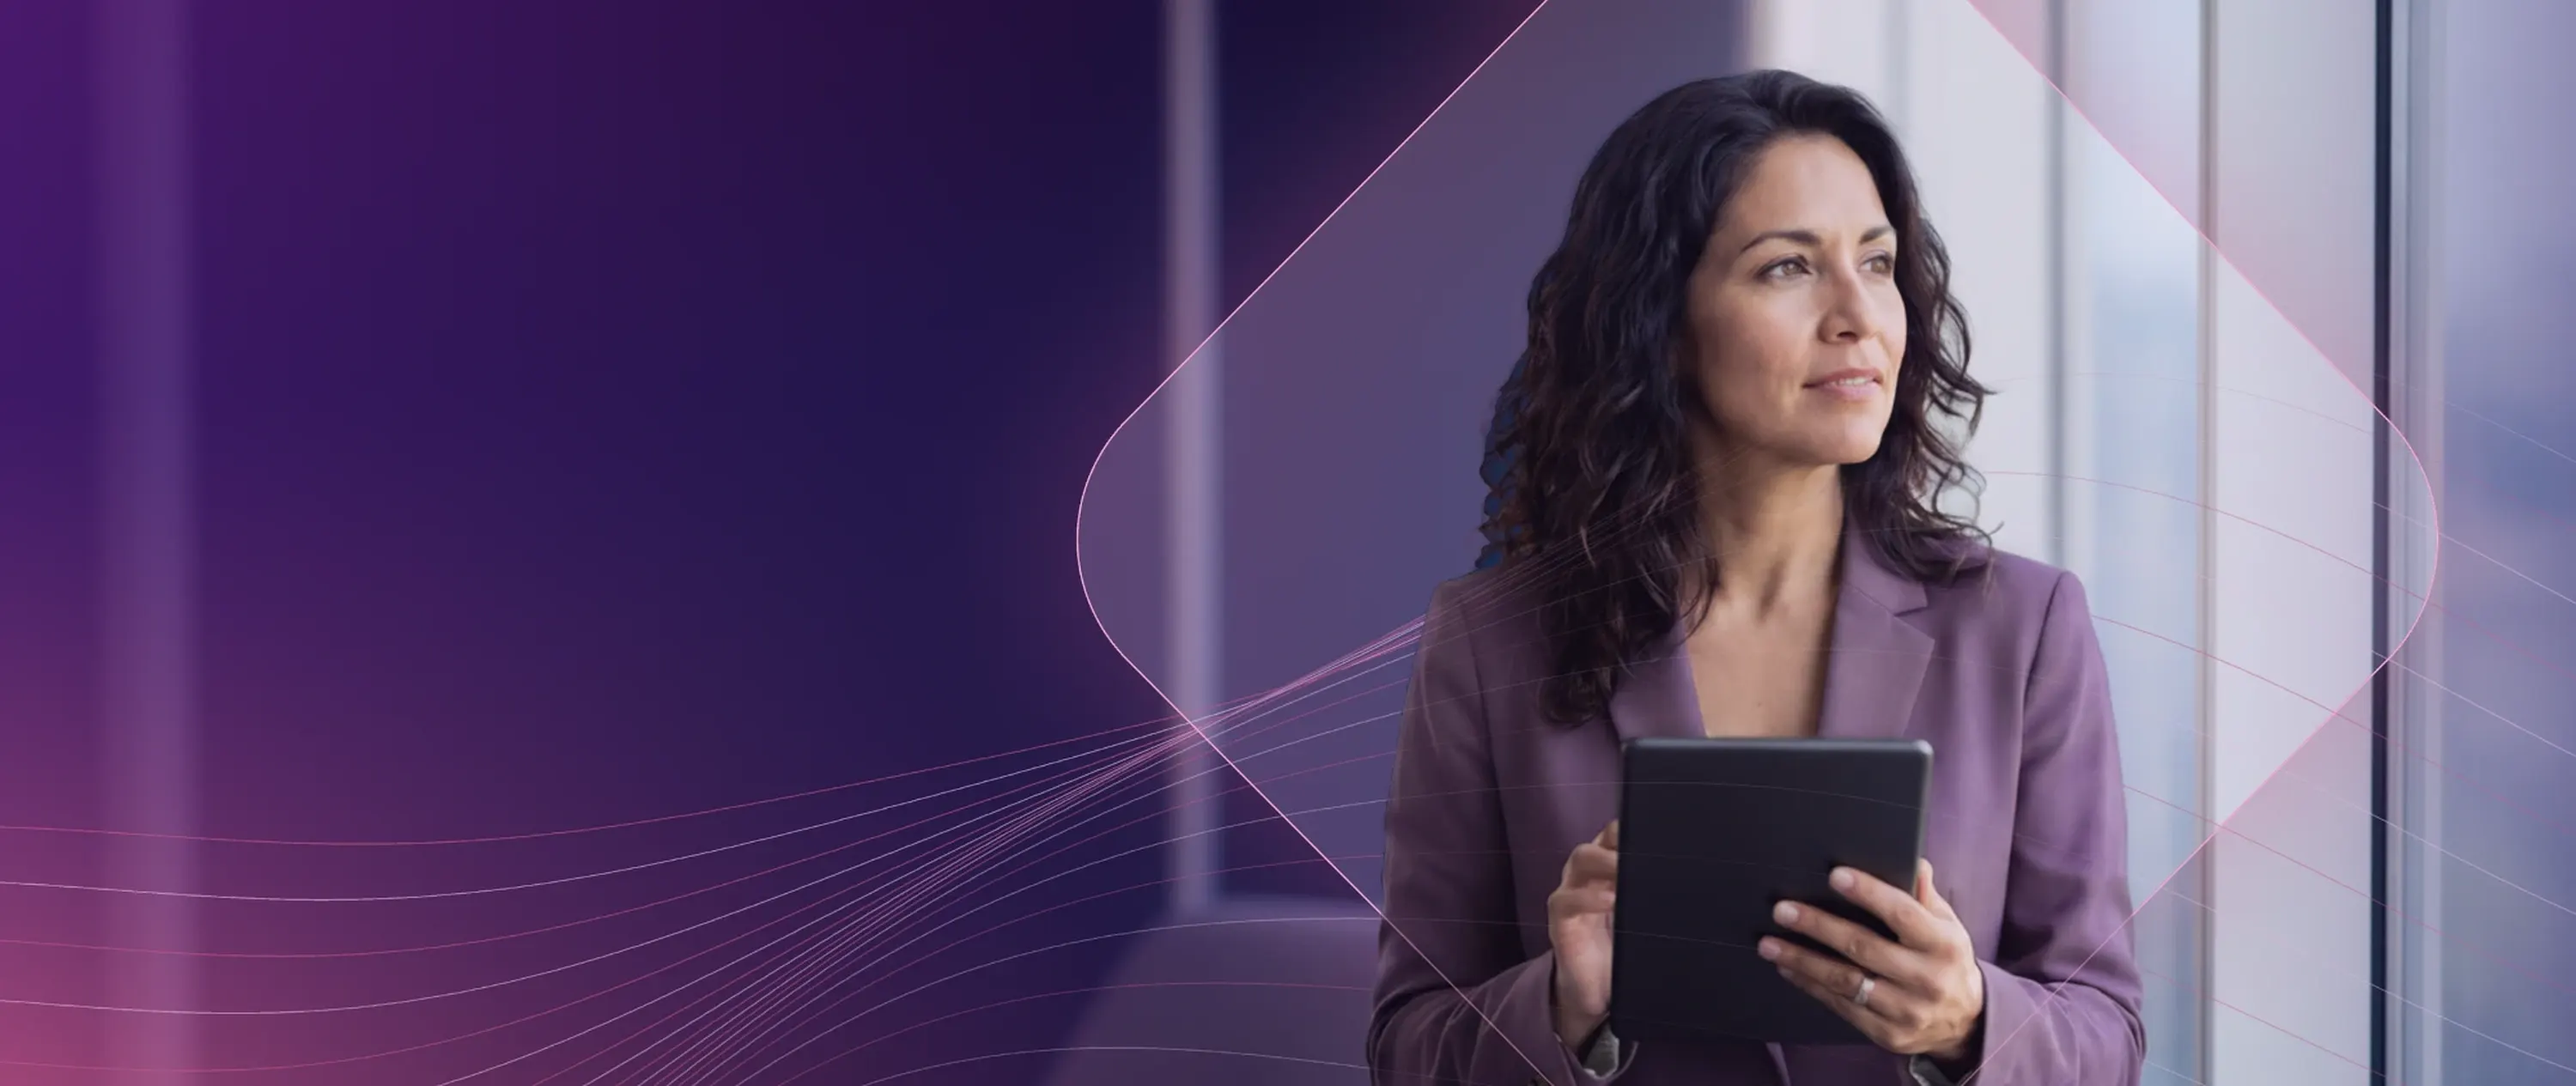
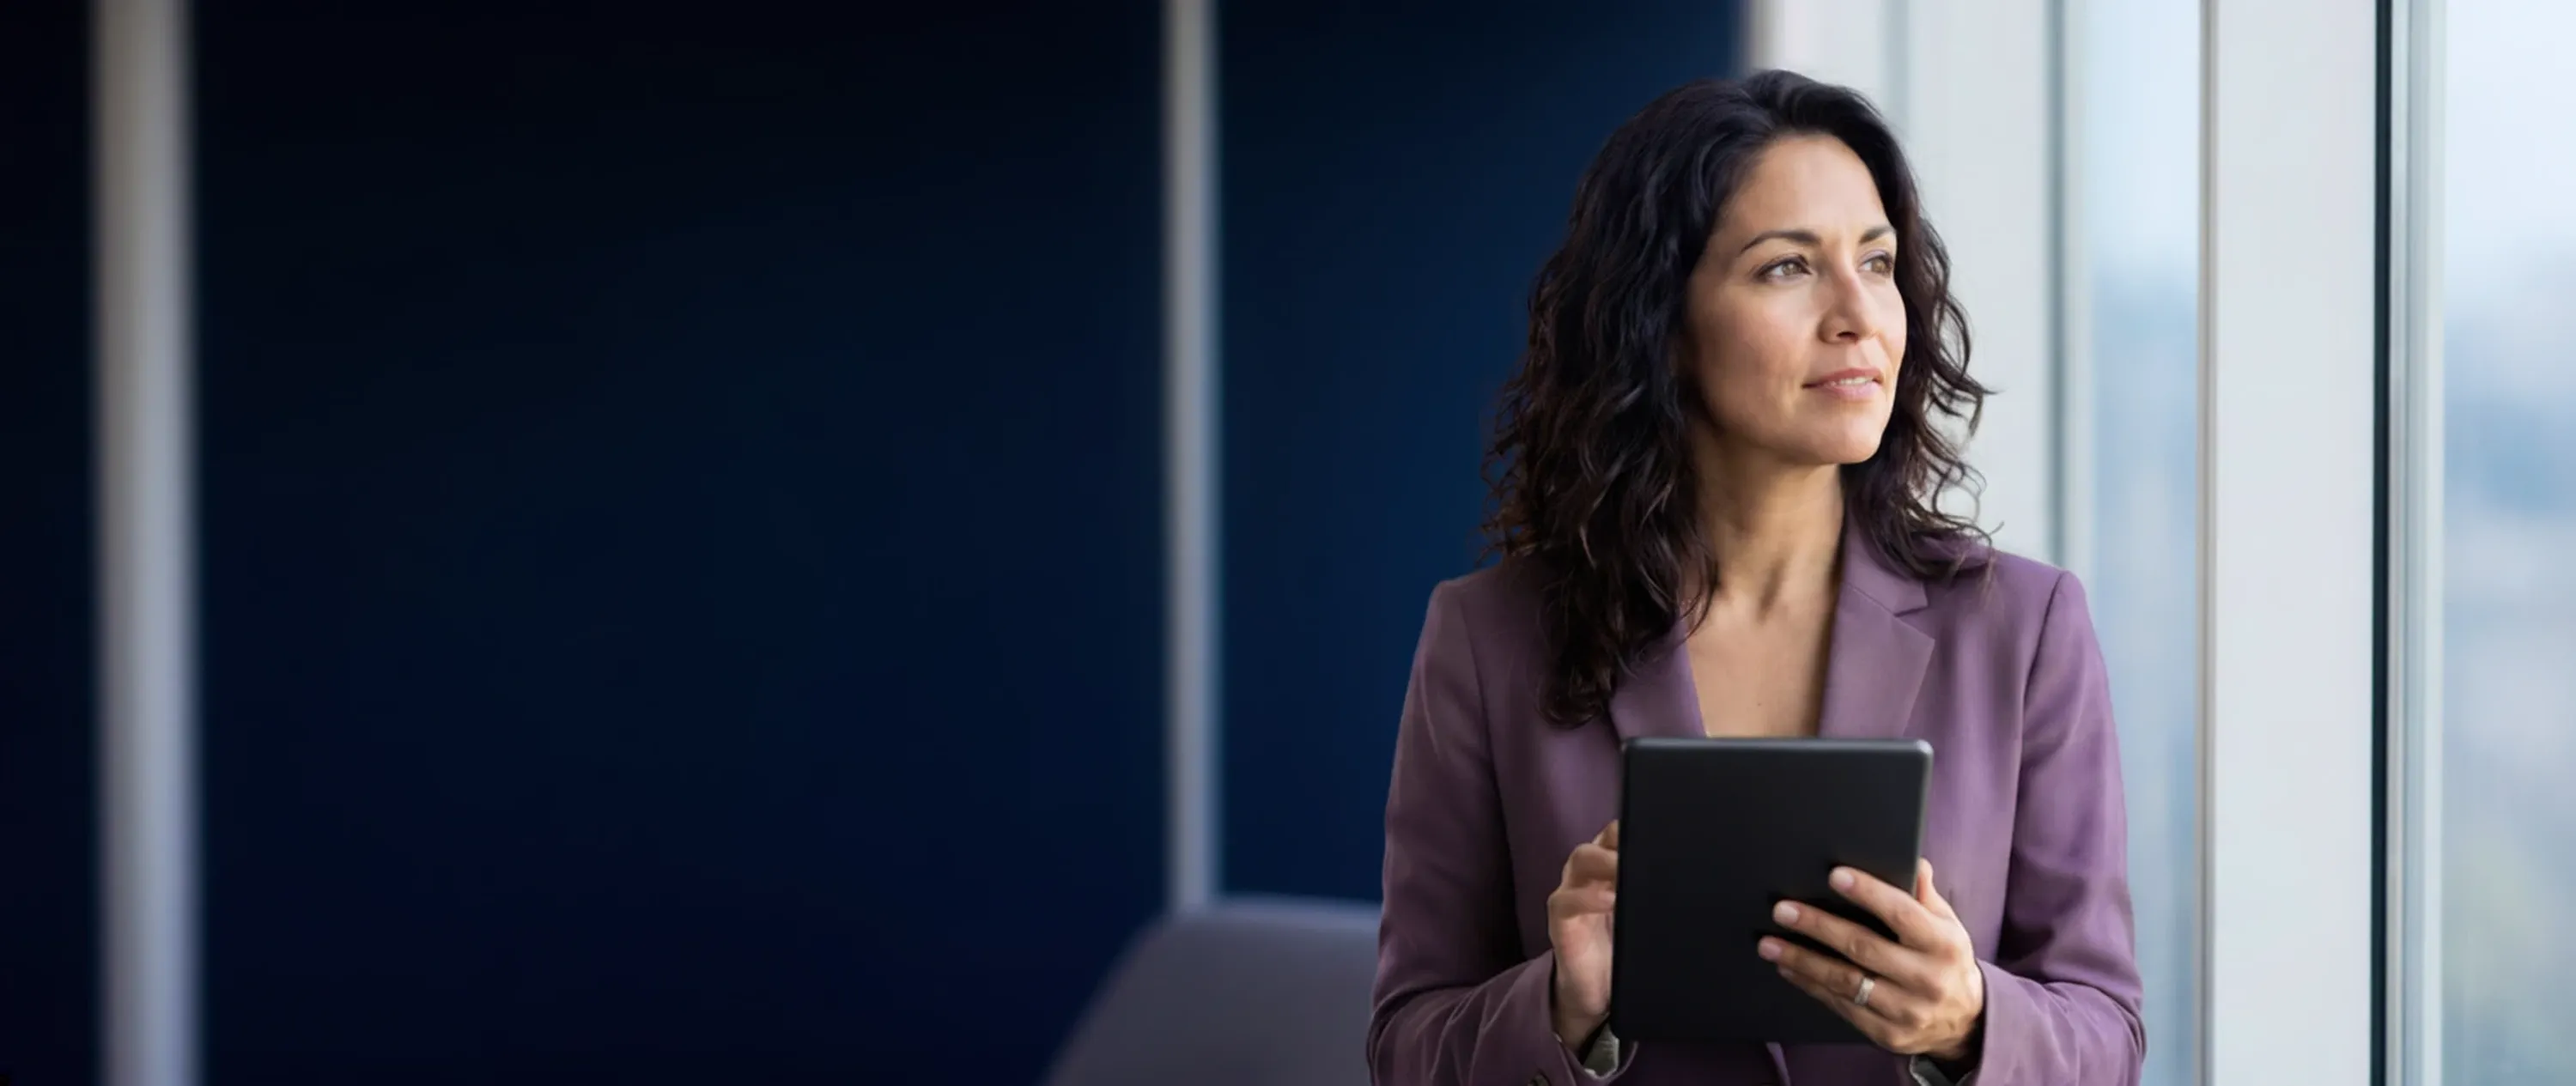
feat: hero com a foto original limpa, arte só em vetor, e variante de 3000 px para telas retina via srcset
- a foto composta com efeitos deu lugar à original sem efeitos; contorno, linhas e véus seguem desenhados em HeroScene
- srcset com 2000 px (39 KB) para telas comuns e celulares e 3000 px (51 KB, Lanczos com nitidez leve) para alta densidade

Claude-Session: https://claude.ai/code/session_01TiLCRrKfz83ETsQu88ppWy

diff --git a/src/assets/people/CREDITS.md b/src/assets/people/CREDITS.md
@@ -6,8 +6,8 @@ ser substituídas por fotografias do time e dos clientes da Natcorp antes da pub
 
 | Arquivo | Origem |
 | --- | --- |
-| hero-v2.webp | Imagem natcorp_hero_v2 fornecida pela Natcorp (profissional com tablet junto à janela, módulo em contorno e linhas de fluxo), 2000 px |
-| hero-v2-3000.webp | A mesma imagem reamostrada em 3000 px (Lanczos com nitidez leve) para telas de alta densidade, servida por srcset |
+| hero-v2.webp | Foto original limpa fornecida pela Natcorp (profissional com tablet junto à janela, sem efeitos), 2000 px. O contorno do módulo, as linhas de fluxo e os véus são desenhados por código em HeroScene |
+| hero-v2-3000.webp | A mesma foto reamostrada em 3000 px (Lanczos com nitidez leve) para telas de alta densidade, servida por srcset. Substituir pela ampliação por IA quando disponível |
 | hero-tablet.webp, hero-tablet-sm.webp | https://unsplash.com/photos/b3WDtGtJ_mI (SoyBreno). Fundo de estúdio removido por chave de cor; WebP com transparência |
 | persona-chro.jpg | https://images.unsplash.com/photo-1573497019940-1c28c88b4f3e |
 | persona-cfo.jpg | https://images.unsplash.com/photo-1560250097-0b93528c311a |
